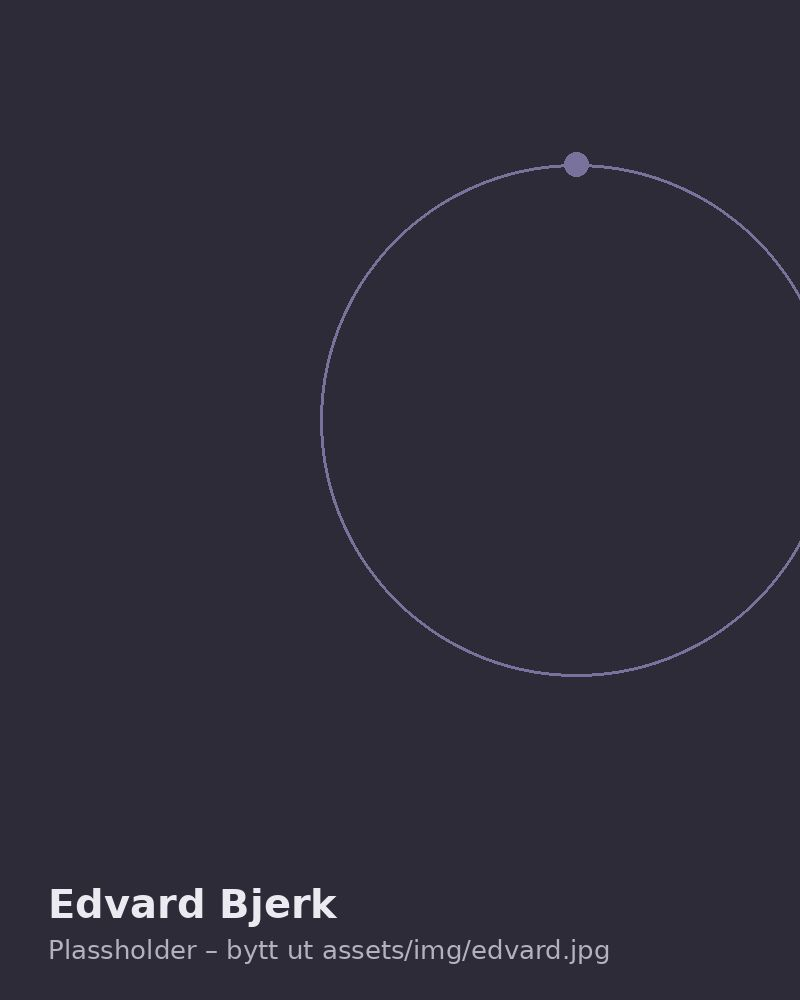
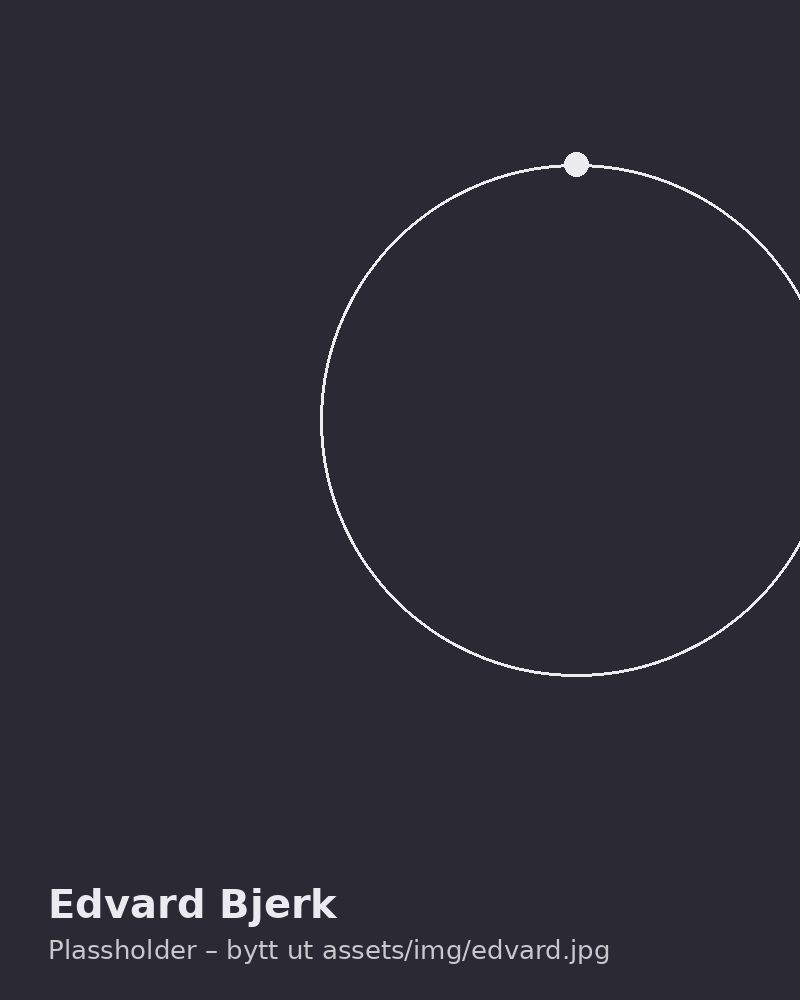
Mørkt tema med hvit tekst, uten kontrastfarger
Hele siden går på mørk bakgrunn med hvit tekst, som i malen. Headeren
har ikke lenger lyse piller eller lyst bånd ved scrolling. Lilla og andre
farger er erstattet med hvitt til kontrastfargene er valgt. Plass til
hvit logo er merket i headeren.

Claude-Session: https://claude.ai/code/session_01KTeQB5cnx6CTHY5PCVLTM9

diff --git a/assets/css/site.css b/assets/css/site.css
@@ -26,15 +26,17 @@
 /* 2. Designtokens. Bytt hex-kodene her, så endres fargen overalt. */
 @layer tokens {
 :root {
-  --color-ink: #211f2a;          /* mørke flater: hero, prosjekter, footer, mobilmeny */
-  --color-paper: #ffffff;        /* hovedbakgrunn */
-  --color-text: #17161c;         /* brødtekst på lys bakgrunn */
-  --color-surface: #f4f3f6;      /* lyse kort og bokser */
-  --color-muted: #5e5c68;        /* sekundærtekst på lys bakgrunn */
-  --color-muted-dark: #b4b1c0;   /* sekundærtekst på mørk bakgrunn */
-  --color-accent: #78729d;       /* kontrastfarge: prikker, ring, detaljer */
-  --color-accent-strong: #5b5587;/* kontrastfarge der tekst ligger oppå (knapper, lenker) */
-  --color-photo: #2d2b38;        /* bakgrunn mens bilder lastes */
+  /* Mørkt tema: mørk bakgrunn og hvit tekst over hele siden.
+     Kontrastfarge kommer senere: bytt --color-accent (og --color-accent-strong) når den er valgt. */
+  --color-paper: #211f2a;        /* hovedbakgrunn */
+  --color-ink: #18171e;          /* dypere flater: hero, tjenester, prosjekter, footer, meny */
+  --color-surface: #2b2934;      /* kort og bokser */
+  --color-text: #ffffff;         /* tekst */
+  --color-muted: #dcdce0;        /* sekundærtekst */
+  --color-muted-dark: #dcdce0;   /* sekundærtekst på dype flater */
+  --color-accent: #ffffff;       /* prikker, ring og detaljer – plass til ny kontrastfarge */
+  --color-accent-strong: #ffffff;/* knapper – plass til ny kontrastfarge */
+  --color-photo: #2b2934;        /* bakgrunn mens bilder lastes */
 
   --font-display: "Schibsted Grotesk", "Helvetica Neue", Arial, sans-serif;
   --font-body: "Inter", "Helvetica Neue", Arial, sans-serif;
@@ -47,7 +49,7 @@
   --header-h: 76px;
   --max: 1440px;
   --line: color-mix(in srgb, var(--color-text) 14%, transparent);
-  --line-dark: color-mix(in srgb, var(--color-paper) 16%, transparent);
+  --line-dark: color-mix(in srgb, var(--color-text) 16%, transparent);
   --ease: cubic-bezier(.7, 0, .2, 1);
 }
 }
@@ -68,7 +70,7 @@ button, input, select, textarea { font: inherit; color: inherit; }
 :focus-visible { outline: 3px solid var(--color-accent); outline-offset: 3px; }
 .visually-hidden { position: absolute; width: 1px; height: 1px; margin: -1px; padding: 0; overflow: hidden; clip-path: inset(50%); white-space: nowrap; border: 0; }
 main { overflow-x: clip; }
-.skip { position: fixed; left: var(--gutter); top: 12px; z-index: 100; padding: 10px 16px; border-radius: var(--radius-2); background: var(--color-paper); color: var(--color-text); font-weight: 600; text-decoration: none; transform: translateY(-160%); }
+.skip { position: fixed; left: var(--gutter); top: 12px; z-index: 100; padding: 10px 16px; border-radius: var(--radius-2); background: var(--color-text); color: var(--color-paper); font-weight: 600; text-decoration: none; transform: translateY(-160%); }
 .skip:focus-visible { transform: none; }
 .wrap { width: 100%; max-width: var(--max); margin-inline: auto; padding-inline: var(--gutter); }
 }
@@ -91,16 +93,16 @@ main { overflow-x: clip; }
 .nowrap { white-space: nowrap; }
 .dot { display: inline-block; width: .18em; height: .18em; margin-left: .04em; border-radius: var(--radius-2); background: var(--color-accent); vertical-align: baseline; }
 
-.btn { position: relative; isolation: isolate; display: inline-flex; align-items: center; gap: 10px; min-height: 50px; padding: 0 24px 0 20px; overflow: hidden; border: 0; border-radius: var(--radius-2); background: var(--color-accent-strong); color: var(--color-paper); font-size: 16px; font-weight: 600; line-height: 1; text-decoration: none; cursor: pointer; }
+.btn { position: relative; isolation: isolate; display: inline-flex; align-items: center; gap: 10px; min-height: 50px; padding: 0 24px 0 20px; overflow: hidden; border: 0; border-radius: var(--radius-2); background: var(--color-accent-strong); color: var(--color-paper); transition: color .35s; font-size: 16px; font-weight: 600; line-height: 1; text-decoration: none; cursor: pointer; }
 .btn::before { content: ""; width: 8px; height: 8px; flex: none; border-radius: var(--radius-2); background: currentColor; }
-.btn::after { content: ""; position: absolute; z-index: -1; left: 24px; top: 50%; width: 8px; height: 8px; margin: -4px 0 0 -4px; border-radius: var(--radius-2); background: var(--color-ink); transform: scale(0); transition: transform .5s var(--ease); }
-.btn--light { background: var(--color-paper); color: var(--color-text); transition: color .35s; }
+.btn::after { content: ""; position: absolute; z-index: -1; left: 24px; top: 50%; width: 8px; height: 8px; margin: -4px 0 0 -4px; border-radius: var(--radius-2); background: var(--color-surface); transform: scale(0); transition: transform .5s var(--ease); }
+.btn--light { background: transparent; color: var(--color-text); box-shadow: inset 0 0 0 1.5px color-mix(in srgb, var(--color-text) 55%, transparent); }
 .btn--light::before { background: var(--color-accent); }
 .btn--ghost { background: transparent; color: inherit; box-shadow: inset 0 0 0 1.5px currentColor; transition: color .35s; }
 .btn--ghost::before { background: var(--color-accent); }
 @media (hover: hover) {
   .btn:hover::after { transform: scale(70); }
-  .btn--light:hover, .btn--ghost:hover { color: var(--color-paper); }
+  .btn:hover { color: var(--color-text); }
 }
 
 .link { display: inline-flex; align-items: center; gap: .45em; font-size: clamp(17px, 1.4vw, 20px); font-weight: 600; line-height: 1.2; text-decoration: none; }
@@ -143,16 +145,16 @@ main { overflow-x: clip; }
 @layer sections {
 .site-header { position: fixed; z-index: 40; inset: 0 0 auto; display: flex; align-items: center; gap: 12px; height: var(--header-h); padding: 0 var(--gutter); pointer-events: none; transition: background .35s; }
 .site-header > * { pointer-events: auto; }
-.site-header.is-scrolled { background: color-mix(in srgb, var(--color-paper) 88%, transparent); backdrop-filter: blur(12px); -webkit-backdrop-filter: blur(12px); }
-.site-header__brand { display: inline-flex; align-items: center; min-height: 48px; padding: 0 20px; border-radius: var(--radius-2); background: var(--color-ink); color: var(--color-paper); text-decoration: none; }
-.site-header__brand img { height: 22px; width: auto; }
+.site-header.is-scrolled { background: color-mix(in srgb, var(--color-paper) 82%, transparent); backdrop-filter: blur(12px); -webkit-backdrop-filter: blur(12px); }
+.site-header__brand { display: inline-flex; align-items: center; min-height: 48px; padding: 0 4px; color: var(--color-text); color: var(--color-text); text-decoration: none; }
+.site-header__brand img { height: 26px; width: auto; }
 .wordmark { font-family: var(--font-display); font-size: 24px; font-weight: 650; line-height: 1; letter-spacing: -0.04em; }
-.site-header__nav { margin-left: auto; padding: 0 10px; border-radius: var(--radius-2); background: var(--color-ink); color: var(--color-paper); }
+.site-header__nav { margin-left: auto; color: var(--color-text); }
 .site-header__nav ul { display: flex; }
 .site-header__nav a { display: block; margin: 0 14px; padding-block: 14px; }
 .site-header__nav a::after { bottom: 10px; }
 .site-header__menu { display: none; margin-left: auto; }
-.menu { position: fixed; inset: 0; z-index: 60; display: grid; grid-template-rows: auto 1fr auto; padding: 14px var(--gutter) 32px; background: var(--color-ink); color: var(--color-paper); overflow-y: auto; }
+.menu { position: fixed; inset: 0; z-index: 60; display: grid; grid-template-rows: auto 1fr auto; padding: 14px var(--gutter) 32px; background: var(--color-ink); color: var(--color-text); overflow-y: auto; }
 .menu[hidden] { display: none; }
 .menu__top { display: flex; align-items: center; justify-content: space-between; min-height: 48px; }
 .menu__list { align-self: center; display: grid; gap: 10px; }
@@ -168,7 +170,7 @@ main { overflow-x: clip; }
 @layer blocks {
 .section { padding-block: var(--section); }
 .section--tight { padding-block: calc(var(--section) * .55); }
-.section--dark { background: var(--color-ink); color: var(--color-paper); }
+.section--dark { background: var(--color-ink); color: var(--color-text); }
 .section--dark .t-eyebrow, .section--dark .prose p, .section--dark .muted { color: var(--color-muted-dark); }
 .section--surface { background: var(--color-surface); }
 .section-head { display: flex; flex-wrap: wrap; align-items: end; justify-content: space-between; gap: 20px 48px; margin-bottom: clamp(40px, 7vh, 88px); }
@@ -212,11 +214,10 @@ main { overflow-x: clip; }
 @media (min-width: 1000px) { .grid-cards--3 { grid-template-columns: repeat(3, minmax(0, 1fr)); } .grid-cards--4 { grid-template-columns: repeat(4, minmax(0, 1fr)); } }
 .line-card { display: grid; gap: 10px; align-content: start; padding-top: 20px; border-top: 1.5px solid var(--color-text); }
 .line-card p { color: var(--color-muted); }
-.section--dark .line-card { border-color: var(--color-paper); }
 .section--dark .line-card p { color: var(--color-muted-dark); }
 
 /* Mørkt kort med oppfordring (f.eks. «Vi ansetter») */
-.cta-band { display: grid; gap: 28px; padding: clamp(32px, 6vw, 88px); border-radius: var(--radius-1); background: var(--color-ink); color: var(--color-paper); text-decoration: none; }
+.cta-band { display: grid; gap: 28px; padding: clamp(32px, 6vw, 88px); border-radius: var(--radius-1); background: var(--color-ink); color: var(--color-text); text-decoration: none; }
 .cta-band p { max-width: 38rem; color: var(--color-muted-dark); }
 .cta-band__row { display: flex; flex-wrap: wrap; align-items: center; gap: 16px 28px; }
 
@@ -239,7 +240,7 @@ main { overflow-x: clip; }
 @layer sections {
 /* Hero: fast header over, rom rundt rammen. Rammen kan holde tekstanimasjon eller video. */
 .hero { padding: calc(var(--header-h) + 4px) var(--gutter) var(--gutter); }
-.hero__frame { position: relative; isolation: isolate; display: grid; grid-template-rows: 1fr auto; min-height: max(calc(100svh - var(--header-h) - 4px - var(--gutter)), 520px); padding: clamp(24px, 4vw, 56px); overflow: hidden; border-radius: var(--radius-1); background: var(--color-ink); color: var(--color-paper); }
+.hero__frame { position: relative; isolation: isolate; display: grid; grid-template-rows: 1fr auto; min-height: max(calc(100svh - var(--header-h) - 4px - var(--gutter)), 520px); padding: clamp(24px, 4vw, 56px); overflow: hidden; border-radius: var(--radius-1); background: var(--color-ink); color: var(--color-text); }
 .hero__video { position: absolute; inset: 0; z-index: -2; width: 100%; height: 100%; object-fit: cover; }
 .hero__frame:has(.hero__video)::before { content: ""; position: absolute; inset: 0; z-index: -1; background: linear-gradient(to top, color-mix(in srgb, var(--color-ink) 80%, transparent), color-mix(in srgb, var(--color-ink) 15%, transparent)); }
 .hero__eyebrow { color: var(--color-muted-dark); }
@@ -251,7 +252,7 @@ main { overflow-x: clip; }
 .hero__foot { display: flex; flex-wrap: wrap; align-items: end; justify-content: space-between; gap: 20px 40px; margin-top: clamp(28px, 5vh, 56px); padding-top: 24px; border-top: 1px solid var(--line-dark); }
 .hero__claim { max-width: 30rem; }
 .hero__orbit { position: absolute; z-index: -1; right: clamp(-120px, -6vw, -40px); top: clamp(40px, 12vh, 140px); width: min(52vw, 62svh); aspect-ratio: 1; border-radius: var(--radius-2); border: 1px solid var(--line-dark); }
-.hero__orbit::before { content: ""; position: absolute; inset: 18%; border-radius: var(--radius-2); border: 1px solid color-mix(in srgb, var(--color-paper) 9%, transparent); }
+.hero__orbit::before { content: ""; position: absolute; inset: 18%; border-radius: var(--radius-2); border: 1px solid color-mix(in srgb, var(--color-text) 9%, transparent); }
 .hero__moon { position: absolute; left: 50%; top: 0; width: 7%; height: 7%; margin: -3.5% 0 0 -3.5%; border-radius: var(--radius-2); background: var(--color-accent); }
 @media (max-width: 699px) { .hero__orbit { width: 88vw; right: -38vw; top: 64px; } }
 
@@ -307,15 +308,15 @@ main { overflow-x: clip; }
 @media (max-width: 899px) { .timeline__year { display: none; } }
 
 /* Utvalgte prosjekter på et vannrett spor */
-.work { position: relative; color: var(--color-paper); }
+.work { position: relative; color: var(--color-text); }
 .work__plate { position: absolute; inset: 0 0 -2px; background: var(--color-ink); }
 .work__stage { position: relative; display: grid; grid-template-columns: minmax(0, 1fr); align-content: start; gap: clamp(28px, 4vh, 48px); padding: var(--section) var(--gutter); }
 .work__head { display: flex; flex-wrap: wrap; align-items: end; justify-content: space-between; gap: 16px 40px; }
 .work__lead { display: grid; gap: 16px; justify-items: start; max-width: 26rem; color: var(--color-muted-dark); }
-.work__lead .link { color: var(--color-paper); }
+.work__lead .link { color: var(--color-text); }
 .work__track { display: grid; grid-template-columns: minmax(0, 1fr); gap: 20px; }
 .work__track > li { display: contents; }
-.case { position: relative; display: block; overflow: hidden; border-radius: var(--radius-1); background: var(--color-photo); aspect-ratio: 4 / 5; color: var(--color-paper); text-decoration: none; }
+.case { position: relative; display: block; overflow: hidden; border-radius: var(--radius-1); background: var(--color-photo); aspect-ratio: 4 / 5; color: var(--color-text); text-decoration: none; }
 .case__media { position: absolute; inset: 0; overflow: hidden; }
 .case__img { position: absolute; top: 0; left: -7%; width: 114%; max-width: none; height: 100%; object-fit: cover; transition: scale .8s var(--ease); }
 .case__media::after { content: ""; position: absolute; inset: 35% 0 0; background: linear-gradient(to top, color-mix(in srgb, var(--color-ink) 88%, transparent), transparent); }
@@ -332,7 +333,7 @@ main { overflow-x: clip; }
 .family__grid { display: grid; gap: 16px; }
 @media (min-width: 800px) { .family__grid { grid-template-columns: repeat(3, minmax(0, 1fr)); } }
 .company { display: grid; gap: 14px; align-content: start; padding: clamp(22px, 2.6vw, 34px); border-radius: var(--radius-1); background: var(--color-surface); text-decoration: none; transition: background .35s; }
-.company--self { background: var(--color-ink); color: var(--color-paper); }
+.company--self { background: var(--color-ink); color: var(--color-text); }
 .company--self p { color: var(--color-muted-dark); }
 .company p { color: var(--color-muted); }
 .company__name { display: flex; align-items: center; justify-content: space-between; gap: 12px; }
@@ -358,7 +359,7 @@ main { overflow-x: clip; }
 .area__cards { display: grid; gap: 12px; }
 .level { display: grid; gap: 8px; padding: 22px; border-radius: var(--radius-3); }
 .level p { font-size: 15px; line-height: 1.5; }
-.level--1 { background: var(--color-ink); color: var(--color-paper); }
+.level--1 { background: var(--color-ink); color: var(--color-text); }
 .level--1 .t-eyebrow, .level--1 p { color: var(--color-muted-dark); }
 .level--2 { background: var(--color-surface); }
 .level--2 p { color: var(--color-muted); }
@@ -371,7 +372,7 @@ main { overflow-x: clip; }
 /* Prosjektliste med filter */
 .filters { display: flex; flex-wrap: wrap; gap: 8px; margin-bottom: 36px; }
 .filter { min-height: 40px; padding: 0 16px; border: 1px solid var(--line); border-radius: var(--radius-2); background: transparent; font-size: 15px; font-weight: 500; cursor: pointer; transition: background .25s, color .25s, border-color .25s; }
-.filter[aria-pressed="true"] { border-color: var(--color-ink); background: var(--color-ink); color: var(--color-paper); }
+.filter[aria-pressed="true"] { border-color: var(--color-text); background: var(--color-text); color: var(--color-paper); }
 @media (hover: hover) { .filter:hover { border-color: var(--color-text); } }
 .project-list { display: grid; gap: 40px 24px; }
 @media (min-width: 700px) { .project-list { grid-template-columns: repeat(2, minmax(0, 1fr)); } }
@@ -426,7 +427,7 @@ main { overflow-x: clip; }
 
 /* 9. Footer */
 @layer sections {
-.site-footer { position: relative; padding: clamp(72px, 11vh, 128px) var(--gutter) 28px; background: var(--color-ink); color: var(--color-paper); overflow: clip; }
+.site-footer { position: relative; padding: clamp(72px, 11vh, 128px) var(--gutter) 28px; background: var(--color-ink); color: var(--color-text); overflow: clip; }
 .site-footer__mark { display: block; font-family: var(--font-display); font-size: min(25vw, 360px); font-weight: 650; line-height: .78; letter-spacing: -0.06em; white-space: nowrap; }
 .site-footer__mark img { width: min(78vw, 1100px); height: auto; }
 .site-footer__grid { display: grid; grid-template-columns: repeat(2, minmax(0, 1fr)); gap: 40px 24px; margin-top: clamp(48px, 9vh, 96px); padding-top: 32px; border-top: 1px solid var(--line-dark); }

diff --git a/prosjekter/felleskjopet/index.html b/prosjekter/felleskjopet/index.html
@@ -28,6 +28,8 @@
 <!-- partial:header -->
 <a class="skip" href="#main">Hopp til innholdet</a>
 <header class="site-header">
+  <!-- LOGO: legg logoen i assets/img/logo-white.svg (eller .png) og bytt ordmerket under med:
+       <img src="../../assets/img/logo-white.svg" alt="Figment" width="120" height="26"> -->
   <a class="site-header__brand" href="../../" aria-label="Figment, til forsiden"><span class="wordmark"><span class="nowrap">figment<span class="dot" aria-hidden="true"></span></span></span></a>
   <nav class="site-header__nav" aria-label="Hovedmeny">
     <ul>

diff --git a/prosjekter/helse-vest-ikt/index.html b/prosjekter/helse-vest-ikt/index.html
@@ -28,6 +28,8 @@
 <!-- partial:header -->
 <a class="skip" href="#main">Hopp til innholdet</a>
 <header class="site-header">
+  <!-- LOGO: legg logoen i assets/img/logo-white.svg (eller .png) og bytt ordmerket under med:
+       <img src="../../assets/img/logo-white.svg" alt="Figment" width="120" height="26"> -->
   <a class="site-header__brand" href="../../" aria-label="Figment, til forsiden"><span class="wordmark"><span class="nowrap">figment<span class="dot" aria-hidden="true"></span></span></span></a>
   <nav class="site-header__nav" aria-label="Hovedmeny">
     <ul>

diff --git a/prosjekter/helseplattformen/index.html b/prosjekter/helseplattformen/index.html
@@ -28,6 +28,8 @@
 <!-- partial:header -->
 <a class="skip" href="#main">Hopp til innholdet</a>
 <header class="site-header">
+  <!-- LOGO: legg logoen i assets/img/logo-white.svg (eller .png) og bytt ordmerket under med:
+       <img src="../../assets/img/logo-white.svg" alt="Figment" width="120" height="26"> -->
   <a class="site-header__brand" href="../../" aria-label="Figment, til forsiden"><span class="wordmark"><span class="nowrap">figment<span class="dot" aria-hidden="true"></span></span></span></a>
   <nav class="site-header__nav" aria-label="Hovedmeny">
     <ul>

diff --git a/prosjekter/ks-digital/index.html b/prosjekter/ks-digital/index.html
@@ -28,6 +28,8 @@
 <!-- partial:header -->
 <a class="skip" href="#main">Hopp til innholdet</a>
 <header class="site-header">
+  <!-- LOGO: legg logoen i assets/img/logo-white.svg (eller .png) og bytt ordmerket under med:
+       <img src="../../assets/img/logo-white.svg" alt="Figment" width="120" height="26"> -->
   <a class="site-header__brand" href="../../" aria-label="Figment, til forsiden"><span class="wordmark"><span class="nowrap">figment<span class="dot" aria-hidden="true"></span></span></span></a>
   <nav class="site-header__nav" aria-label="Hovedmeny">
     <ul>

diff --git a/prosjekter/sammen/index.html b/prosjekter/sammen/index.html
@@ -28,6 +28,8 @@
 <!-- partial:header -->
 <a class="skip" href="#main">Hopp til innholdet</a>
 <header class="site-header">
+  <!-- LOGO: legg logoen i assets/img/logo-white.svg (eller .png) og bytt ordmerket under med:
+       <img src="../../assets/img/logo-white.svg" alt="Figment" width="120" height="26"> -->
   <a class="site-header__brand" href="../../" aria-label="Figment, til forsiden"><span class="wordmark"><span class="nowrap">figment<span class="dot" aria-hidden="true"></span></span></span></a>
   <nav class="site-header__nav" aria-label="Hovedmeny">
     <ul>

diff --git a/prosjekter/wattif-ev/index.html b/prosjekter/wattif-ev/index.html
@@ -28,6 +28,8 @@
 <!-- partial:header -->
 <a class="skip" href="#main">Hopp til innholdet</a>
 <header class="site-header">
+  <!-- LOGO: legg logoen i assets/img/logo-white.svg (eller .png) og bytt ordmerket under med:
+       <img src="../../assets/img/logo-white.svg" alt="Figment" width="120" height="26"> -->
   <a class="site-header__brand" href="../../" aria-label="Figment, til forsiden"><span class="wordmark"><span class="nowrap">figment<span class="dot" aria-hidden="true"></span></span></span></a>
   <nav class="site-header__nav" aria-label="Hovedmeny">
     <ul>

diff --git a/jobbe-i-figment/index.html b/jobbe-i-figment/index.html
@@ -28,6 +28,8 @@
 <!-- partial:header -->
 <a class="skip" href="#main">Hopp til innholdet</a>
 <header class="site-header">
+  <!-- LOGO: legg logoen i assets/img/logo-white.svg (eller .png) og bytt ordmerket under med:
+       <img src="../assets/img/logo-white.svg" alt="Figment" width="120" height="26"> -->
   <a class="site-header__brand" href="../" aria-label="Figment, til forsiden"><span class="wordmark"><span class="nowrap">figment<span class="dot" aria-hidden="true"></span></span></span></a>
   <nav class="site-header__nav" aria-label="Hovedmeny">
     <ul>

diff --git a/karriere/index.html b/karriere/index.html
@@ -28,6 +28,8 @@
 <!-- partial:header -->
 <a class="skip" href="#main">Hopp til innholdet</a>
 <header class="site-header">
+  <!-- LOGO: legg logoen i assets/img/logo-white.svg (eller .png) og bytt ordmerket under med:
+       <img src="../assets/img/logo-white.svg" alt="Figment" width="120" height="26"> -->
   <a class="site-header__brand" href="../" aria-label="Figment, til forsiden"><span class="wordmark"><span class="nowrap">figment<span class="dot" aria-hidden="true"></span></span></span></a>
   <nav class="site-header__nav" aria-label="Hovedmeny">
     <ul>

diff --git a/kontakt/index.html b/kontakt/index.html
@@ -27,6 +27,8 @@
 <!-- partial:header -->
 <a class="skip" href="#main">Hopp til innholdet</a>
 <header class="site-header">
+  <!-- LOGO: legg logoen i assets/img/logo-white.svg (eller .png) og bytt ordmerket under med:
+       <img src="../assets/img/logo-white.svg" alt="Figment" width="120" height="26"> -->
   <a class="site-header__brand" href="../" aria-label="Figment, til forsiden"><span class="wordmark"><span class="nowrap">figment<span class="dot" aria-hidden="true"></span></span></span></a>
   <nav class="site-header__nav" aria-label="Hovedmeny">
     <ul>

diff --git a/prosjekter/index.html b/prosjekter/index.html
@@ -29,6 +29,8 @@
 <!-- partial:header -->
 <a class="skip" href="#main">Hopp til innholdet</a>
 <header class="site-header">
+  <!-- LOGO: legg logoen i assets/img/logo-white.svg (eller .png) og bytt ordmerket under med:
+       <img src="../assets/img/logo-white.svg" alt="Figment" width="120" height="26"> -->
   <a class="site-header__brand" href="../" aria-label="Figment, til forsiden"><span class="wordmark"><span class="nowrap">figment<span class="dot" aria-hidden="true"></span></span></span></a>
   <nav class="site-header__nav" aria-label="Hovedmeny">
     <ul>

diff --git a/strategisk-teknologiledelse/index.html b/strategisk-teknologiledelse/index.html
@@ -27,6 +27,8 @@
 <!-- partial:header -->
 <a class="skip" href="#main">Hopp til innholdet</a>
 <header class="site-header">
+  <!-- LOGO: legg logoen i assets/img/logo-white.svg (eller .png) og bytt ordmerket under med:
+       <img src="../assets/img/logo-white.svg" alt="Figment" width="120" height="26"> -->
   <a class="site-header__brand" href="../" aria-label="Figment, til forsiden"><span class="wordmark"><span class="nowrap">figment<span class="dot" aria-hidden="true"></span></span></span></a>
   <nav class="site-header__nav" aria-label="Hovedmeny">
     <ul>
